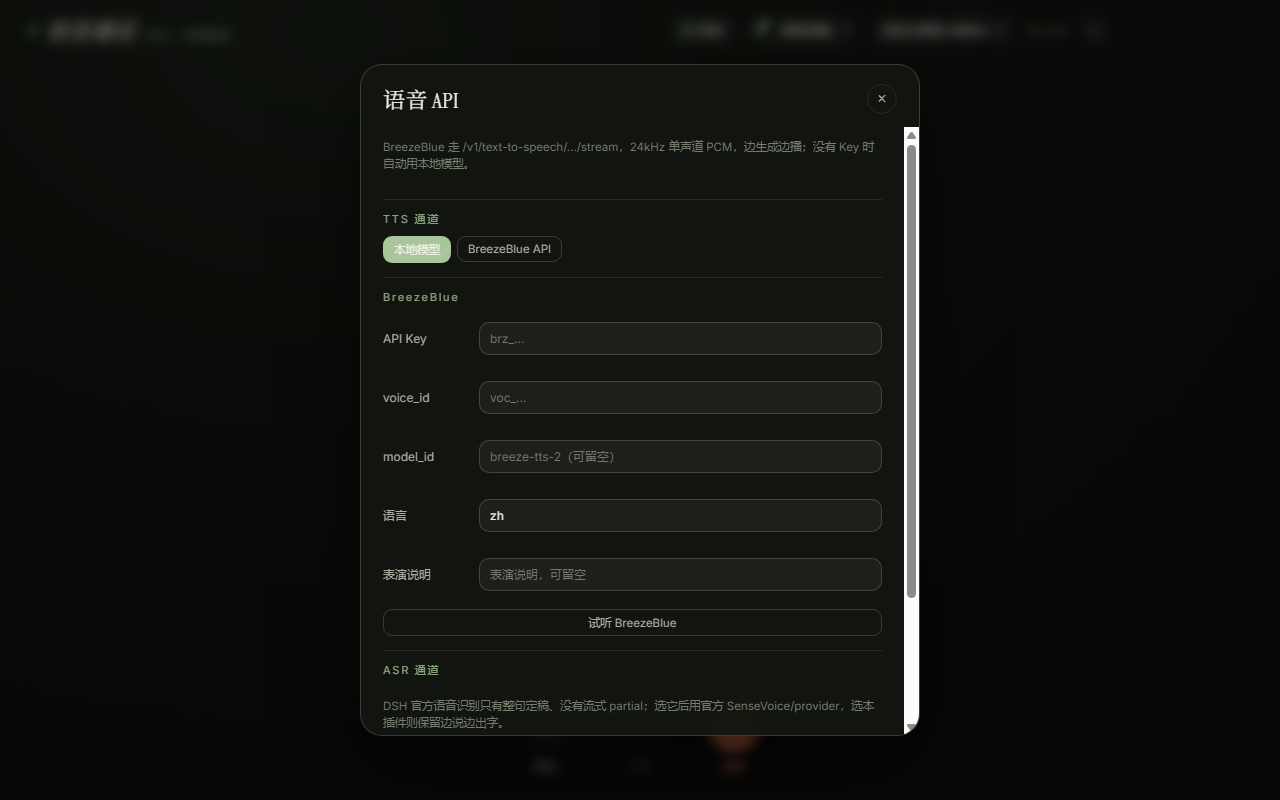
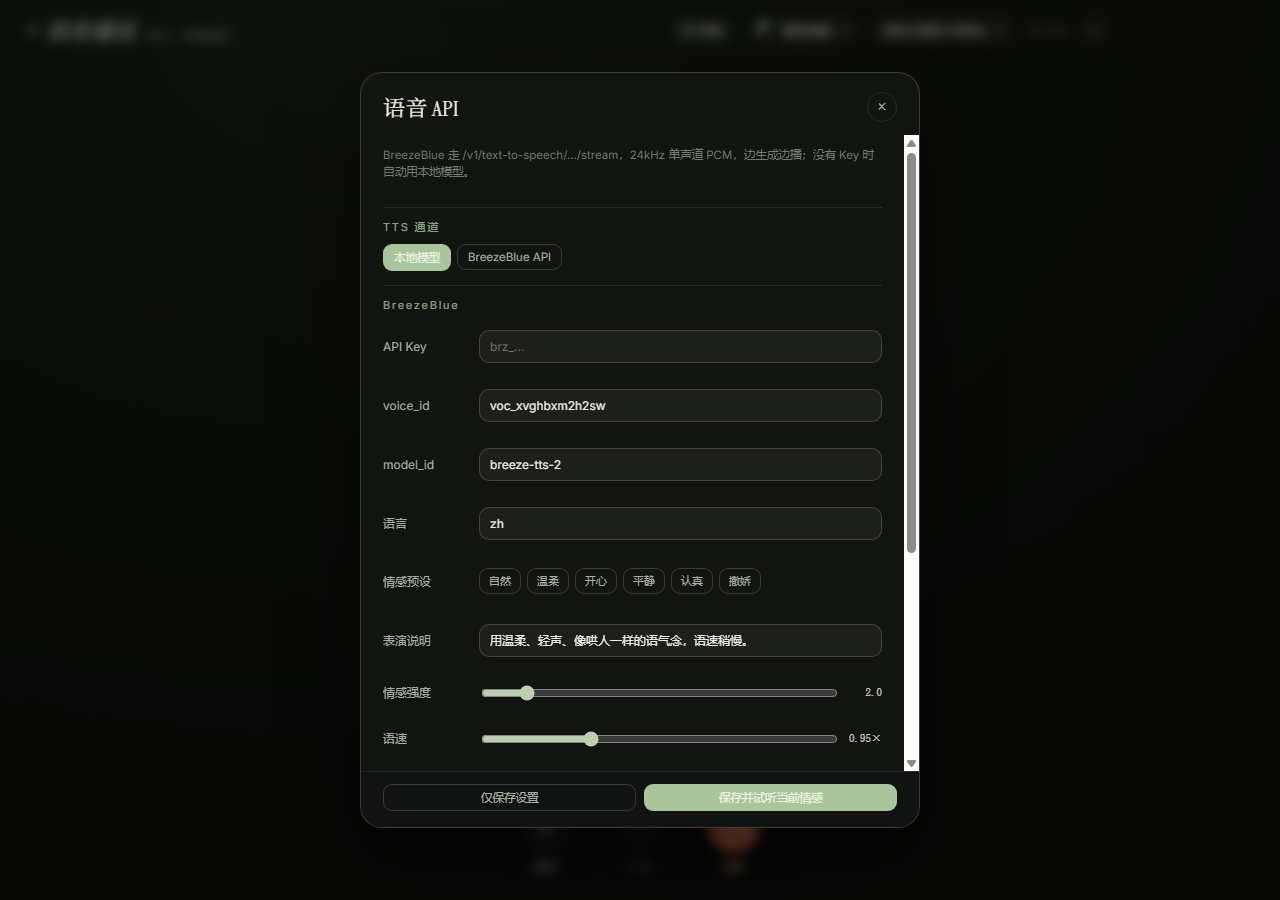
0.9.10: BreezeBlue emotion controls (instructions, guidance, speed, volume)

diff --git a/lib/client.js b/lib/client.js
@@ -1799,6 +1799,8 @@ ${THEME_CSS}
   color: var(--dvlc-stone); font-size: 16px; line-height: 1; cursor: pointer; }
 .dvlc-vp-close:hover { background: var(--dvlc-surface-hover); color: var(--dvlc-ink); }
 .dvlc-vp-body { overflow: auto; overscroll-behavior: contain; padding: 0 22px 20px; display: flex; flex-direction: column; gap: 14px; }
+.dvlc-vp-foot { display: flex; gap: 8px; padding: 12px 22px 16px; border-top: 1px solid var(--dvlc-line); background: var(--dvlc-glass, rgba(17, 20, 18, .92)); flex: 0 0 auto; }
+.dvlc-vp-foot .dvlc-vp-btn { flex: 1; }
 .dvlc-vp-sec { border-top: 1px solid var(--dvlc-line); padding-top: 12px; display: flex; flex-direction: column; gap: 10px; }
 .dvlc-vp-sec-h { display: flex; align-items: center; justify-content: space-between; gap: 10px; }
 .dvlc-vp-sec-t { font-size: 11px; letter-spacing: .16em; color: var(--dvlc-accent-text); }
@@ -1865,6 +1867,11 @@ ${THEME_CSS}
 .dvlc-api-label { flex: 0 0 86px; font-size: 12px; color: var(--dvlc-stone); }
 .dvlc-api-row .dvlc-vp-input { flex: 1; padding: 8px 10px; font-size: 12px; }
 .dvlc-api-note { min-height: 16px; white-space: pre-wrap; }
+.dvlc-api-range { display: flex; align-items: center; gap: 8px; flex: 1; }
+.dvlc-api-range input[type="range"] { flex: 1; min-width: 0; accent-color: var(--dvlc-accent, #8fb394); }
+.dvlc-api-range-val { flex: 0 0 34px; text-align: right; font: 11px/1 var(--dvlc-font-mono, monospace); color: var(--dvlc-paper); opacity: .8; }
+.dvlc-api-emo { display: flex; flex-wrap: wrap; gap: 6px; margin: 2px 0 4px; }
+.dvlc-api-emo .dvlc-vp-btn { padding: 5px 9px; font-size: 11px; }
 .dvlc-vp-progress { font-size: 11px; letter-spacing: .1em; color: var(--dvlc-accent-text); }
 .dvlc-vp-prompt { font-family: ${SERIF}; font-size: 22px; line-height: 1.35; color: var(--dvlc-ink); }
 .dvlc-vp-wave { display: flex; align-items: flex-end; gap: 3px; height: 34px; }
@@ -2183,10 +2190,12 @@ ${THEME_CSS}
       head.appendChild(title); head.appendChild(close)
       const body = document.createElement('div')
       body.className = 'dvlc-vp-body'
-      card.appendChild(head); card.appendChild(body)
+      const footer = document.createElement('div')
+      footer.className = 'dvlc-vp-foot'
+      card.appendChild(head); card.appendChild(body); card.appendChild(footer)
       panel.appendChild(backdrop); panel.appendChild(card)
       overlayRefs.root.appendChild(panel)
-      apiPanel = { panel, body }
+      apiPanel = { panel, body, footer }
     }
 
     async function loadApiStatus() {
@@ -2241,11 +2250,35 @@ ${THEME_CSS}
       return input
     }
 
+    function apiRange(value, min, max, step, fmt) {
+      const wrap = vpEl('span', 'dvlc-api-range')
+      const input = document.createElement('input')
+      input.type = 'range'
+      input.min = String(min)
+      input.max = String(max)
+      input.step = String(step)
+      input.value = String(value)
+      const val = vpEl('span', 'dvlc-api-range-val', fmt(input.value))
+      input.addEventListener('input', () => { val.textContent = fmt(input.value) })
+      wrap.appendChild(input)
+      wrap.appendChild(val)
+      return {
+        input,
+        wrap,
+        set(v) {
+          const n = Math.min(max, Math.max(min, Number(v)))
+          input.value = String(Number.isFinite(n) ? n : min)
+          val.textContent = fmt(input.value)
+        },
+      }
+    }
+
     function renderApiPanel() {
       if (!apiPanel) return
       const b = apiStatus.breeze || {}
       const body = apiPanel.body
       body.innerHTML = ''
+      apiPanel.footer.innerHTML = ''
       const hint = vpEl('p', 'dvlc-vp-hint', 'BreezeBlue 走 /v1/text-to-speech/.../stream，24kHz 单声道 PCM，边生成边播；没有 Key 时自动用本地模型。')
       body.appendChild(hint)
 
@@ -2272,20 +2305,49 @@ ${THEME_CSS}
       const model = apiText(b.model, 'breeze-tts-2（可留空）')
       const lang = apiText(b.language || 'zh', 'zh / en')
       const inst = apiText(b.instructions, '表演说明，可留空')
+      const guidance = apiRange(b.guidanceScale ?? 1, 1, 10, 0.1, (v) => Number(v).toFixed(1))
+      const speed = apiRange(b.speed ?? 1, 0.5, 2, 0.05, (v) => Number(v).toFixed(2) + '×')
+      const volume = apiRange(b.volume ?? 1, 0.01, 2, 0.01, (v) => Number(v).toFixed(2) + '×')
+      const emo = vpEl('div', 'dvlc-api-emo')
+      const presets = [
+        { name: '自然', inst: '', g: 1, s: 1 },
+        { name: '温柔', inst: '用温柔、轻声、像哄人一样的语气念，语速稍慢，句尾轻一些。', g: 1.8, s: 0.95 },
+        { name: '开心', inst: '用开心、明亮、带笑意的语气念，语速稍快，句尾上扬。', g: 2.5, s: 1.05 },
+        { name: '平静', inst: '用平静、克制、自然的语气念，像在叙述一件已经过去的事，停顿从容。', g: 1.2, s: 1 },
+        { name: '认真', inst: '用认真、清晰、可靠的语气念，重点词稍加重，不夸张。', g: 2, s: 0.98 },
+        { name: '撒娇', inst: '用撒娇、黏人、带一点委屈的语气念，尾音软下来，语速稍慢。', g: 2.8, s: 0.92 },
+      ]
+      for (const p of presets) {
+        const btn = vpEl('button', 'dvlc-vp-btn', p.name)
+        btn.type = 'button'
+        btn.addEventListener('click', () => {
+          inst.value = p.inst
+          guidance.set(p.g)
+          speed.set(p.s)
+          apiBusyNote(`已套用「${p.name}」情感预设，保存/试听后生效`)
+        })
+        emo.appendChild(btn)
+      }
       bSec.appendChild(apiRow('API Key', key))
       bSec.appendChild(apiRow('voice_id', voice))
       bSec.appendChild(apiRow('model_id', model))
       bSec.appendChild(apiRow('语言', lang))
+      bSec.appendChild(apiRow('情感预设', emo))
       bSec.appendChild(apiRow('表演说明', inst))
-      apiPanel._fields = { key, voice, model, lang, inst }
-      const test = vpEl('button', 'dvlc-vp-btn', '试听 BreezeBlue')
+      bSec.appendChild(apiRow('情感强度', guidance.wrap))
+      bSec.appendChild(apiRow('语速', speed.wrap))
+      bSec.appendChild(apiRow('音量', volume.wrap))
+      bSec.appendChild(vpEl('p', 'dvlc-vp-hint', '情感说明写在「表演说明」里，用中文描述情境、意图、情绪和节奏；强度 1–10 控制贴合程度（官方建议 1–3 起步），语速 0.5–2×。'))
+      apiPanel._fields = { key, voice, model, lang, inst, guidance: guidance.input, speed: speed.input, volume: volume.input }
+      const test = vpEl('button', 'dvlc-vp-btn primary', '保存并试听当前情感')
       test.type = 'button'
       test.addEventListener('click', async () => {
         if (apiBusy) return
         apiBusy = true
-        apiBusyNote('正在试听…')
+        apiBusyNote('正在保存并试听…')
         try {
-          const payload = { text: '你好，这是 BreezeBlue 语音测试。' }
+          if (!(await saveApiConfig())) return
+          const payload = { text: '你好，这是 BreezeBlue 情感语音测试。' }
           const r = await fetch(BASE + '/tts/test', {
             method: 'POST',
             headers: { 'Content-Type': 'application/json' },
@@ -2307,7 +2369,6 @@ ${THEME_CSS}
           apiBusy = false
         }
       })
-      bSec.appendChild(test)
       body.appendChild(bSec)
 
       const asrSec = vpSec('ASR 通道')
@@ -2328,10 +2389,11 @@ ${THEME_CSS}
       asrSec.appendChild(asrRow)
       body.appendChild(asrSec)
 
-      const saveBtn = vpEl('button', 'dvlc-vp-btn primary', '保存语音 API 设置')
+      const saveBtn = vpEl('button', 'dvlc-vp-btn', '仅保存设置')
       saveBtn.type = 'button'
       saveBtn.addEventListener('click', () => { void saveApiConfig() })
-      body.appendChild(saveBtn)
+      apiPanel.footer.appendChild(saveBtn)
+      apiPanel.footer.appendChild(test)
 
       const note = vpEl('p', 'dvlc-vp-hint dvlc-api-note', '')
       body.appendChild(note)
@@ -2346,6 +2408,9 @@ ${THEME_CSS}
         model: f.model.value.trim(),
         language: f.lang.value.trim(),
         instructions: f.inst.value.trim(),
+        guidanceScale: Number(f.guidance.value),
+        speed: Number(f.speed.value),
+        volume: Number(f.volume.value),
         asrProvider: apiStatus.asrProvider,
       }
       if (f.key.value.trim()) payload.apiKey = f.key.value.trim()

diff --git a/lib/index.js b/lib/index.js
@@ -92,6 +92,10 @@ const DEFAULTS = {
   breezeModel: '',
   breezeLanguage: 'zh',
   breezeInstructions: '',
+  breezeGuidance: 1,
+  breezeSpeed: 1,
+  breezeVolume: 1,
+  breezeSpeakerBoost: false,
   autoStart: true,
   // 首次启动且没有任何可用 TTS 时，自动下载包内示例模型（见 examples/models/）
   autoDownloadModels: true,
@@ -182,6 +186,10 @@ export function apply(ctx, config = {}) {
     model: savedTtsApi.model || cfg.breezeModel,
     language: savedTtsApi.language || cfg.breezeLanguage,
     instructions: savedTtsApi.instructions || cfg.breezeInstructions,
+    guidanceScale: savedTtsApi.guidanceScale ?? cfg.breezeGuidance,
+    speed: savedTtsApi.speed ?? cfg.breezeSpeed,
+    volume: savedTtsApi.volume ?? cfg.breezeVolume,
+    speakerBoost: savedTtsApi.speakerBoost ?? cfg.breezeSpeakerBoost,
   })
   if (savedTtsApi.asrProvider === 'dsh' || savedTtsApi.asrProvider === 'local') cfg.asrProvider = savedTtsApi.asrProvider
   if (typeof savedTtsApi.asrLanguage === 'string' && savedTtsApi.asrLanguage) cfg.asrLanguage = savedTtsApi.asrLanguage
@@ -203,6 +211,10 @@ export function apply(ctx, config = {}) {
         model: breeze.model,
         language: breeze.language,
         instructions: breeze.instructions,
+        guidanceScale: breeze.guidanceScale,
+        speed: breeze.speed,
+        volume: breeze.volume,
+        speakerBoost: breeze.speakerBoost,
         asrProvider: cfg.asrProvider,
         asrLanguage: cfg.asrLanguage,
       }
@@ -657,6 +669,10 @@ export function apply(ctx, config = {}) {
     }
     if (req.method !== 'POST') return sendJson(res, 405, { ok: false, error: 'method not allowed' })
     const body = await readJson(req, cfg.maxBodyBytes)
+    const clamp = (v, fallback, min, max) => {
+      const n = Number(v)
+      return Number.isFinite(n) ? Math.min(max, Math.max(min, n)) : fallback
+    }
     const next = {
       provider: body.provider === 'local' ? 'local' : (body.provider === 'breeze' ? 'breeze' : ttsProvider),
       baseUrl: typeof body.baseUrl === 'string' ? body.baseUrl : breeze.baseUrl,
@@ -665,6 +681,10 @@ export function apply(ctx, config = {}) {
       model: typeof body.model === 'string' ? body.model.trim() : breeze.model,
       language: typeof body.language === 'string' ? body.language.trim().slice(0, 2) : breeze.language,
       instructions: typeof body.instructions === 'string' ? body.instructions : breeze.instructions,
+      guidanceScale: clamp(body.guidanceScale, breeze.guidanceScale, 1, 10),
+      speed: clamp(body.speed, breeze.speed, 0.5, 2),
+      volume: clamp(body.volume, breeze.volume, 0.01, 2),
+      speakerBoost: typeof body.speakerBoost === 'boolean' ? body.speakerBoost : breeze.speakerBoost,
     }
     breeze.update(next)
     ttsProvider = next.provider
@@ -737,6 +757,10 @@ export function apply(ctx, config = {}) {
         llmTap: cfg.llmTap, firstSegmentChars: cfg.firstSegmentChars,
         asrProvider: cfg.asrProvider, asrLanguage: cfg.asrLanguage,
         ttsProvider,
+        breezeGuidance: breeze.guidanceScale,
+        breezeSpeed: breeze.speed,
+        breezeVolume: breeze.volume,
+        breezeSpeakerBoost: breeze.speakerBoost,
         callPersona: cfg.callPersona !== false,
         maxSegmentChars: cfg.maxSegmentChars, speed: cfg.speed,
         vadThreshold: cfg.vadThreshold, autoEndSilenceMs: cfg.autoEndSilenceMs,

diff --git a/lib/tts/breeze.js b/lib/tts/breeze.js
@@ -15,6 +15,12 @@ function trimBase(v) {
   return String(v || BREEZE_DEFAULT_BASE).replace(/\/+$/, '')
 }
 
+function clampNum(value, fallback, min, max) {
+  const n = Number(value)
+  if (!Number.isFinite(n)) return fallback
+  return Math.min(max, Math.max(min, n))
+}
+
 /** 从 JSON/文本错误体里取一句可读信息。 */
 async function errorText(res) {
   let raw = ''
@@ -40,6 +46,11 @@ export class BreezeTts {
     this.model = String(opts.model || '')
     this.language = String(opts.language || 'zh').slice(0, 2)
     this.instructions = String(opts.instructions || '')
+    // 官方情感/表达控制：instructions 描述表演，guidance_scale 控制贴合强度。
+    this.guidanceScale = clampNum(opts.guidanceScale, 1, 1, 10)
+    this.speed = clampNum(opts.speed, 1, 0.5, 2)
+    this.volume = clampNum(opts.volume, 1, 0.01, 2)
+    this.speakerBoost = opts.speakerBoost === true
     this.timeoutMs = Number(opts.timeoutMs) > 0 ? Number(opts.timeoutMs) : 60000
     return this
   }
@@ -57,6 +68,10 @@ export class BreezeTts {
       model: this.model,
       language: this.language,
       instructions: this.instructions,
+      guidanceScale: this.guidanceScale,
+      speed: this.speed,
+      volume: this.volume,
+      speakerBoost: this.speakerBoost,
       hasKey: !!this.apiKey,
       keyPrefix: this.apiKey ? this.apiKey.slice(0, 4) + '…' : '',
     }
@@ -79,6 +94,12 @@ export class BreezeTts {
     if (this.model) body.model_id = this.model
     if (this.language) body.language_code = this.language
     if (this.instructions) body.instructions = this.instructions
+    const voiceSettings = {}
+    if (this.guidanceScale !== 1) voiceSettings.guidance_scale = this.guidanceScale
+    if (this.speed !== 1) voiceSettings.speed = this.speed
+    if (this.volume !== 1) voiceSettings.volume = this.volume
+    if (this.speakerBoost) voiceSettings.use_speaker_boost = true
+    if (Object.keys(voiceSettings).length) body.voice_settings = voiceSettings
 
     const res = await fetch(url, {
       method: 'POST',

diff --git a/CHANGELOG.md b/CHANGELOG.md
@@ -1,5 +1,19 @@
 # Changelog
 
+## 0.9.10 — 2026-11-14
+
+- **BreezeBlue 官方情感控制**：`instructions`（情境/意图/情绪/节奏）+ `voice_settings.guidance_scale`
+  （1–10，官方建议表达性片段 1–3 起步）+ `speed`（0.5–2×，保持音高）+ `volume`（0.01–2×）+
+  `use_speaker_boost`。只传非默认值，避免无意改变默认音色。
+- **语音 API 面板**：新增「自然/温柔/开心/平静/认真/撒娇」情感预设，自动填说明、强度与语速；
+  新增情感强度、语速、音量滑杆；「保存并试听当前情感」先落盘再试听。
+- `tts-api.json` 持久化 `guidanceScale / speed / volume / speakerBoost`；
+  `BreezeTts.status()` 返回这些值，POST `/tts/api` 做范围钳制。
+- 新增 `breeze-smoke` 的情感参数断言与 API 持久化断言。
+- 实测（用户账号，2026-11-14）：同文本「平静」3.04s / RMS 0.063，「惊喜」2.07s / RMS 0.168，
+  证明 instructions + guidance + speed 生效；示例音频仅本机，未入仓。
+- 说明：API Key 仅存本机 `$DSH_HOME/voice-local/tts-api.json`（0600），仓库和 Release 均不含密钥。
+
 ## 0.9.9 — 2026-11-14
 
 - **BreezeBlue 流式 TTS API**：新增 `lib/tts/breeze.js`，接

diff --git a/README.en.md b/README.en.md
@@ -21,6 +21,8 @@ Local full-duplex voice for **DeepSeek Harness (DSH)**: pluggable TTS + streamin
 - **BreezeBlue streaming TTS (optional)**: `ttsProvider: "breeze"` streams 24 kHz PCM from
   `/v1/text-to-speech/{voice_id}/stream` into the existing playback queue. Configure via the
   in-overlay “Voice API” panel or `POST /voice-local/tts/api`; missing key falls back to local TTS.
+  Emotion control uses `instructions` plus `voice_settings.guidance_scale` (1–10),
+  `speed` (0.5–2×) and `volume` (0.01–2×). Presets fill in the direction for you.
 - **DSH official ASR (optional)**: `asrProvider: "dsh"` uses the host `ctx.speechToText` service
   (official local SenseVoice or a cloud provider). It is whole-utterance final-only, so live
   partial captions are lost; the default `local` keeps streaming ASR.
@@ -62,7 +64,7 @@ Install the tarball from the DSH plugin page, or download it from the
 [GitHub Releases](https://github.com/god1sdfghjkl/dsh-plugin-voice-local/releases) until the npm package is out:
 
 ```bash
-dsh plugin --profile <profile> add ./dsh-plugin-voice-local-0.9.9.tgz
+dsh plugin --profile <profile> add ./dsh-plugin-voice-local-0.9.10.tgz
 ```
 
 Refresh the host page after installing because the client bundle is cached.
